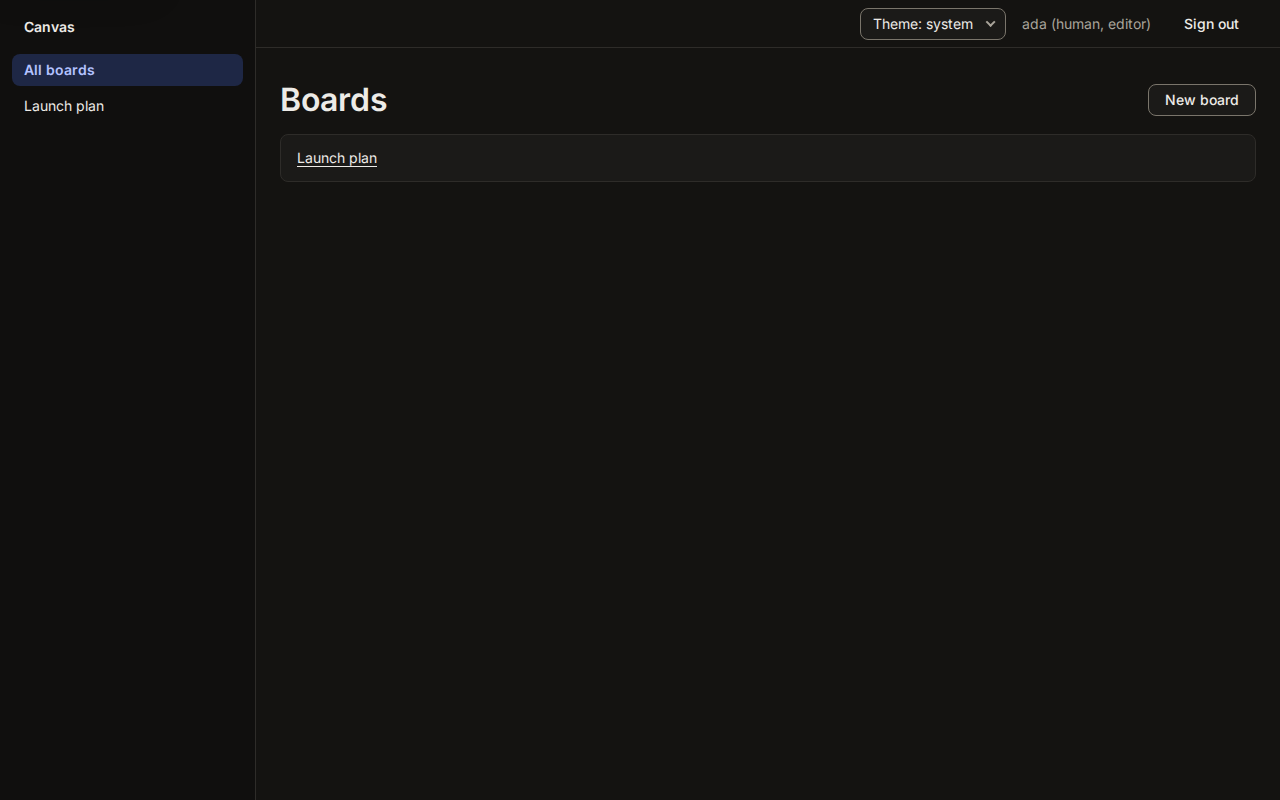
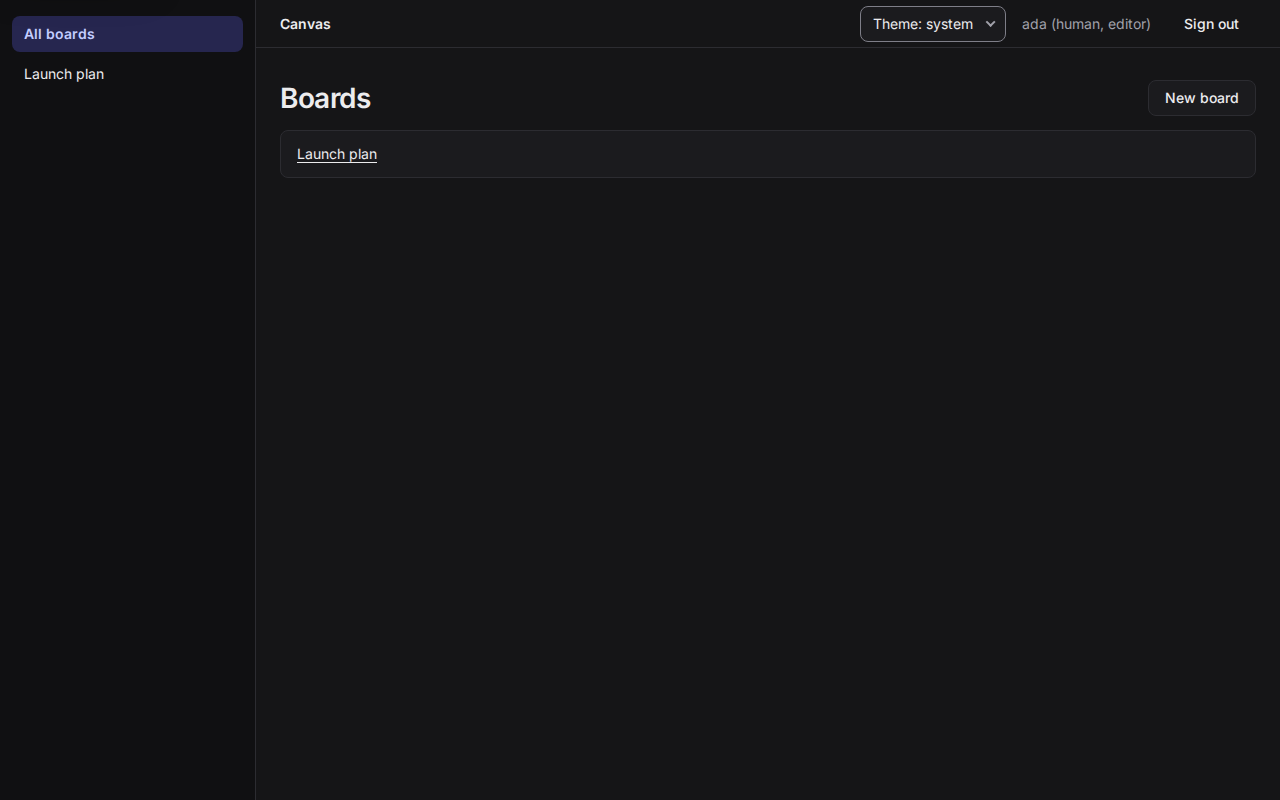
[CANVAS-100] Give the board a calm look
Use agentic-design 0.5. The shape palette and the zoom controls float on
the canvas, before it in tab order. The canvas has a dot grid and softer
lines. The empty state is centered.

diff --git a/ui/ui.css b/ui/ui.css
@@ -5,32 +5,40 @@
   .note { color: var(--agd-color-text-muted); }
   .sr-only { position: absolute; width: 1px; height: 1px; overflow: hidden; clip: rect(0 0 0 0); white-space: nowrap; }
 
-  .board { display: grid; gap: var(--agd-space-3); }
-  .stage { position: relative; display: grid; grid-template-columns: minmax(0, 1fr) 16rem; gap: var(--agd-space-3); height: 65vh; min-height: 22rem; }
+  .board { display: grid; gap: var(--agd-space-4); }
+  .heading { display: grid; gap: var(--agd-space-1); }
+  .heading h1, .heading .note { margin: 0; }
+  .heading .note { font-size: var(--agd-font-size-sm); min-height: 1.25em; }
+  .stage { display: grid; grid-template-columns: minmax(0, 1fr) 15rem; gap: var(--agd-space-4); height: 68vh; min-height: 24rem; }
+  /* The palette and the zoom controls float on the canvas, so the page keeps one calm surface. They come before the canvas, so Tab reaches them first. */
+  .surface { position: relative; min-height: 18rem; }
+  .palette, .zoom { position: absolute; z-index: 1; left: var(--agd-space-3); max-width: calc(100% - 2 * var(--agd-space-3)); }
+  .palette { top: var(--agd-space-3); }
+  .zoom { bottom: var(--agd-space-3); }
+  .palette .agd-toolbar, .zoom .agd-toolbar { flex-wrap: wrap; box-shadow: var(--agd-shadow-raised); }
+  .canvas { height: 100%; box-sizing: border-box; background-color: var(--agd-color-surface); background-image: radial-gradient(var(--agd-color-border) 1px, transparent 1px); background-size: 24px 24px; border: 1px solid var(--agd-color-border); border-radius: var(--agd-radius-lg); overflow: hidden; touch-action: none; min-height: 18rem; }
   @media (max-width: 48rem) { .stage { grid-template-columns: 1fr; height: auto; } .canvas { height: 55vh; } }
-  .canvas { background: var(--agd-color-surface-sunken); border: 1px solid var(--agd-color-border); border-radius: var(--agd-radius-md); overflow: hidden; touch-action: none; min-height: 18rem; }
   .canvas:focus-visible { outline: 3px solid var(--agd-color-focus); outline-offset: 2px; }
   .canvas svg { display: block; cursor: grab; font-family: var(--agd-font-family-sans); font-size: 14px; }
   .item { outline: none; cursor: pointer; }
-  .shape { fill: var(--agd-color-surface-raised); stroke: var(--agd-color-border-strong); stroke-width: 1.5; }
+  .shape { fill: var(--agd-color-surface-raised); stroke: var(--agd-color-border-strong); stroke-width: 1; }
   .shape.text { fill: transparent; stroke: none; }
   .shape.frame, .shape.image { fill: none; stroke-dasharray: 6 4; pointer-events: visiblePainted; }
   .shape.sticky { fill: var(--agd-color-warning-subtle); stroke: var(--agd-color-warning); }
   .label { fill: var(--agd-color-text); pointer-events: none; }
   .sticky-label { fill: var(--agd-color-warning-text); }
-  .edge { stroke: var(--agd-color-text-muted); stroke-width: 2; fill: none; pointer-events: none; }
+  .edge { stroke: var(--agd-color-text-muted); stroke-width: 1.5; fill: none; pointer-events: none; }
   .hit { stroke: transparent; stroke-width: 14; }
   .arrowhead { fill: var(--agd-color-text-muted); }
-  .edge-text { fill: var(--agd-color-text); paint-order: stroke; stroke: var(--agd-color-surface-sunken); stroke-width: 4px; pointer-events: none; }
+  .edge-text { fill: var(--agd-color-text); paint-order: stroke; stroke: var(--agd-color-surface); stroke-width: 4px; pointer-events: none; }
   .ring, .ring-line { fill: none; stroke: none; stroke-width: 3; pointer-events: none; }
   .item.selected .ring, .item.selected .ring-line, .item:focus-visible .ring, .item:focus-visible .ring-line { stroke: var(--agd-color-focus); }
   .item:focus-visible .ring, .item:focus-visible .ring-line { stroke-width: 4; }
   .handle { fill: var(--agd-color-focus); stroke: var(--agd-color-bg); stroke-width: 2; cursor: nwse-resize; }
   .agent-badge rect { fill: var(--agd-color-agent-subtle); stroke: var(--agd-color-agent); }
   .agent-badge text { fill: var(--agd-color-agent-text); font-size: 11px; font-weight: 600; pointer-events: none; }
-  .empty-overlay { position: absolute; inset: 0 16rem 0 0; display: grid; place-items: center; pointer-events: none; }
-  @media (max-width: 48rem) { .empty-overlay { inset: 0; bottom: auto; height: 55vh; } }
-  .inspector { border: 1px solid var(--agd-color-border); border-radius: var(--agd-radius-md); padding: var(--agd-space-3); background: var(--agd-color-surface); display: grid; gap: var(--agd-space-3); align-content: start; overflow: auto; }
+  .empty-overlay { position: absolute; inset: 0; display: grid; place-items: center; pointer-events: none; }
+  .inspector { border: 1px solid var(--agd-color-border); border-radius: var(--agd-radius-lg); padding: var(--agd-space-4); background: var(--agd-color-surface); display: grid; gap: var(--agd-space-3); align-content: start; overflow: auto; }
   .inspector h2 { margin: 0; font-size: var(--agd-font-size-lg); }
   .inspector form { display: grid; gap: var(--agd-space-3); }
   .inspector .by { margin: 0; color: var(--agd-color-text-muted); font-size: var(--agd-font-size-sm); }

diff --git a/ui/BoardView.tsx b/ui/BoardView.tsx
@@ -235,31 +235,41 @@ export function BoardView({ id, client: remote, host, room: roomOptions, me, bac
   return (
     <section className="board" aria-labelledby="board-h">
       <div className="row">
-        <h1 id="board-h">{d.title || d.id}</h1>
+        <div className="heading">
+          <h1 id="board-h">{d.title || d.id}</h1>
+          <p className="note" role="status">{editable ? status : ""}</p>
+        </div>
         <PresenceStack entries={[{ id: "me", name: me.actor, kind: me.kind === "human" ? "person" : "agent" }, ...peers]} label={live ? "In this board" : "In this board (not live)"} />
       </div>
-      <Toolbar label="Board tools">
-        {TOOLS.map((t) => (
-          <ToolbarButton key={t.type} label={t.text} icon={t.icon} disabled={!editable} onClick={() => add(t.type)} />
-        ))}
-        <ToolbarSeparator />
-        <ToolbarButton label="Zoom out" icon={icon(<path d="M4 10h12" />)} onClick={() => zoom(1 / 1.25)} />
-        <ToolbarButton label="Zoom in" icon={icon(<path d="M4 10h12M10 4v12" />)} onClick={() => zoom(1.25)} />
-        <ToolbarButton label="Pan left" icon={icon(<path d="M12 4l-6 6 6 6" />)} onClick={() => setView((v) => ({ ...v, x: v.x + PAN_STEP }))} />
-        <ToolbarButton label="Pan right" icon={icon(<path d="M8 4l6 6-6 6" />)} onClick={() => setView((v) => ({ ...v, x: v.x - PAN_STEP }))} />
-        <ToolbarButton label="Pan up" icon={icon(<path d="M4 12l6-6 6 6" />)} onClick={() => setView((v) => ({ ...v, y: v.y + PAN_STEP }))} />
-        <ToolbarButton label="Pan down" icon={icon(<path d="M4 8l6 6 6-6" />)} onClick={() => setView((v) => ({ ...v, y: v.y - PAN_STEP }))} />
-        <ToolbarButton label="Reset view" icon={icon(<path d="M4 4h5M4 4v5M16 16h-5M16 16v-5" />)} onClick={() => setView(HOME)} />
-      </Toolbar>
-      <p className="note" role="status">{editable ? status : ""}</p>
       {!editable && <p className="note">{host ? "This board is read only." : "This token can read the board but not change it."}</p>}
-      <div className="stage" ref={canvasBox}>
-        <Canvas data={d} selected={selected} editable={editable} view={view} onView={setView} onSelect={setSelected} onMove={move} onResize={resize} onDelete={remove} />
-        {empty && (
-          <div className="empty-overlay">
-            <EmptyState title="This board is empty" description={editable ? "Add a shape or a note with the tools above." : "Nothing has been drawn yet."} />
+      <div className="stage">
+        <div className="surface" ref={canvasBox}>
+          <div className="palette">
+            <Toolbar label="Shape palette">
+              {TOOLS.map((t) => (
+                <ToolbarButton key={t.type} label={t.text} icon={t.icon} disabled={!editable} onClick={() => add(t.type)} />
+              ))}
+            </Toolbar>
           </div>
-        )}
+          <div className="zoom">
+            <Toolbar label="Zoom and pan">
+              <ToolbarButton label="Zoom out" icon={icon(<path d="M4 10h12" />)} onClick={() => zoom(1 / 1.25)} />
+              <ToolbarButton label="Zoom in" icon={icon(<path d="M4 10h12M10 4v12" />)} onClick={() => zoom(1.25)} />
+              <ToolbarSeparator />
+              <ToolbarButton label="Pan left" icon={icon(<path d="M12 4l-6 6 6 6" />)} onClick={() => setView((v) => ({ ...v, x: v.x + PAN_STEP }))} />
+              <ToolbarButton label="Pan right" icon={icon(<path d="M8 4l6 6-6 6" />)} onClick={() => setView((v) => ({ ...v, x: v.x - PAN_STEP }))} />
+              <ToolbarButton label="Pan up" icon={icon(<path d="M4 12l6-6 6 6" />)} onClick={() => setView((v) => ({ ...v, y: v.y + PAN_STEP }))} />
+              <ToolbarButton label="Pan down" icon={icon(<path d="M4 8l6 6 6-6" />)} onClick={() => setView((v) => ({ ...v, y: v.y - PAN_STEP }))} />
+              <ToolbarButton label="Reset view" icon={icon(<path d="M4 4h5M4 4v5M16 16h-5M16 16v-5" />)} onClick={() => setView(HOME)} />
+            </Toolbar>
+          </div>
+          <Canvas data={d} selected={selected} editable={editable} view={view} onView={setView} onSelect={setSelected} onMove={move} onResize={resize} onDelete={remove} />
+          {empty && (
+            <div className="empty-overlay">
+              <EmptyState title="This board is empty" description={editable ? "Pick a shape from the palette to start." : "Nothing has been drawn yet."} />
+            </div>
+          )}
+        </div>
         <Inspector key={item?.id ?? "none"} item={item} nodes={d.nodes} editable={editable} onText={(text) => item && write(() => client.update(id, item.id, { text }), "Could not save the text")} onPlace={place} onDelete={remove} onConnect={(to) => item && write(() => client.addConnector(id, { from: { id: item.id }, to: { id: to } }), "Could not connect")} />
       </div>
     </section>

diff --git a/e2e/ui.spec.ts b/e2e/ui.spec.ts
@@ -123,6 +123,12 @@ test("the keyboard moves, resizes, deletes, and clears", async ({ page }) => {
   await page.goto("/#/b/keys");
   await expect(item(page, "Rectangle: First")).toBeVisible();
 
+  // Both toolbars come before the canvas, so Tab reaches them before any item.
+  const order = await page.evaluate(() => {
+    const canvas = document.querySelector(".canvas")!;
+    return ["Shape palette", "Zoom and pan"].map((name) => !!(document.querySelector(`[role=toolbar][aria-label="${name}"]`)!.compareDocumentPosition(canvas) & Node.DOCUMENT_POSITION_FOLLOWING));
+  });
+  expect(order).toEqual([true, true]);
   await page.keyboard.press("Tab"); // the canvas
   await page.locator(".canvas").focus();
   await page.keyboard.press("Tab");

diff --git a/ui/ui-css.test.tsx b/ui/ui-css.test.tsx
@@ -6,3 +6,11 @@ test("ui.css holds no hex color", () => {
   const css = readFileSync(new URL("./ui.css", import.meta.url), "utf8");
   expect(css.match(/#[0-9a-fA-F]{3,8}\b/g) ?? []).toEqual([]);
 });
+
+// The old prefix matches ad blocker rules. The UI sources must use only agd- classes and tokens.
+test("the UI sources hold no ad- class or token", () => {
+  for (const file of ["ui.css", "app.css", "BoardView.tsx", "Canvas.tsx", "App.tsx"]) {
+    const text = readFileSync(new URL(`./${file}`, import.meta.url), "utf8");
+    expect(text.match(/(?<![\w-])(?:--)?ad-[a-z]/g) ?? [], file).toEqual([]);
+  }
+});

diff --git a/README.md b/README.md
@@ -7,7 +7,7 @@
 
 A shared whiteboard for diagrams, drawn by people and agents.
 
-> Status: 0.11.0. The board model, the agent operations, the exports, the CLI, the
+> Status: 0.12.0. The board model, the agent operations, the exports, the CLI, the
 > MCP server, a small Worker API, and live co-editing work. The CLI, the MCP server,
 > and the SDK can join a live room. A remote client calls the Worker API. A small web UI, served by the Worker, is new in 0.4.0.
 > The package exports `agentic-canvas/ui`, a board view you can mount in your own app, new in 0.5.0.
@@ -240,7 +240,7 @@ What it does:
 
 - Lists boards, makes a board, and opens one. Empty, loading, and error states have a retry.
 - Draws shapes, connectors, text, and sticky notes. Select, move, resize, connect, and delete an
-  item. Pan by dragging the background, zoom with the wheel or the toolbar.
+  item. Pan by dragging the background, zoom with the wheel or the zoom controls on the canvas.
 - Marks an item an agent wrote with an "Agent" tag and in its accessible name. The side panel shows
   who made the item and who last edited it.
 - Shows who is in the board, from the live room (`agentic-realtime`). Edits go over the HTTP API.

diff --git a/CHANGELOG.md b/CHANGELOG.md
@@ -1,5 +1,12 @@
 # Changelog
 
+## 0.12.0
+
+**Changed**
+
+- A calmer board look, with `agentic-design` ^0.5.0 (was ^0.4.0). The shape palette and the zoom controls float on the canvas as two small toolbars. The canvas has a soft dot grid and a large radius. Shapes and connectors have thinner lines. The save status sits under the title. The empty state is centered on the canvas. The look follows Tiny Little Office (https://tinylittleoffice.com, MIT). No code is copied.
+- The toolbar named "Board tools" is now two toolbars: "Shape palette" and "Zoom and pan".
+
 ## 0.11.0
 
 **Added**
